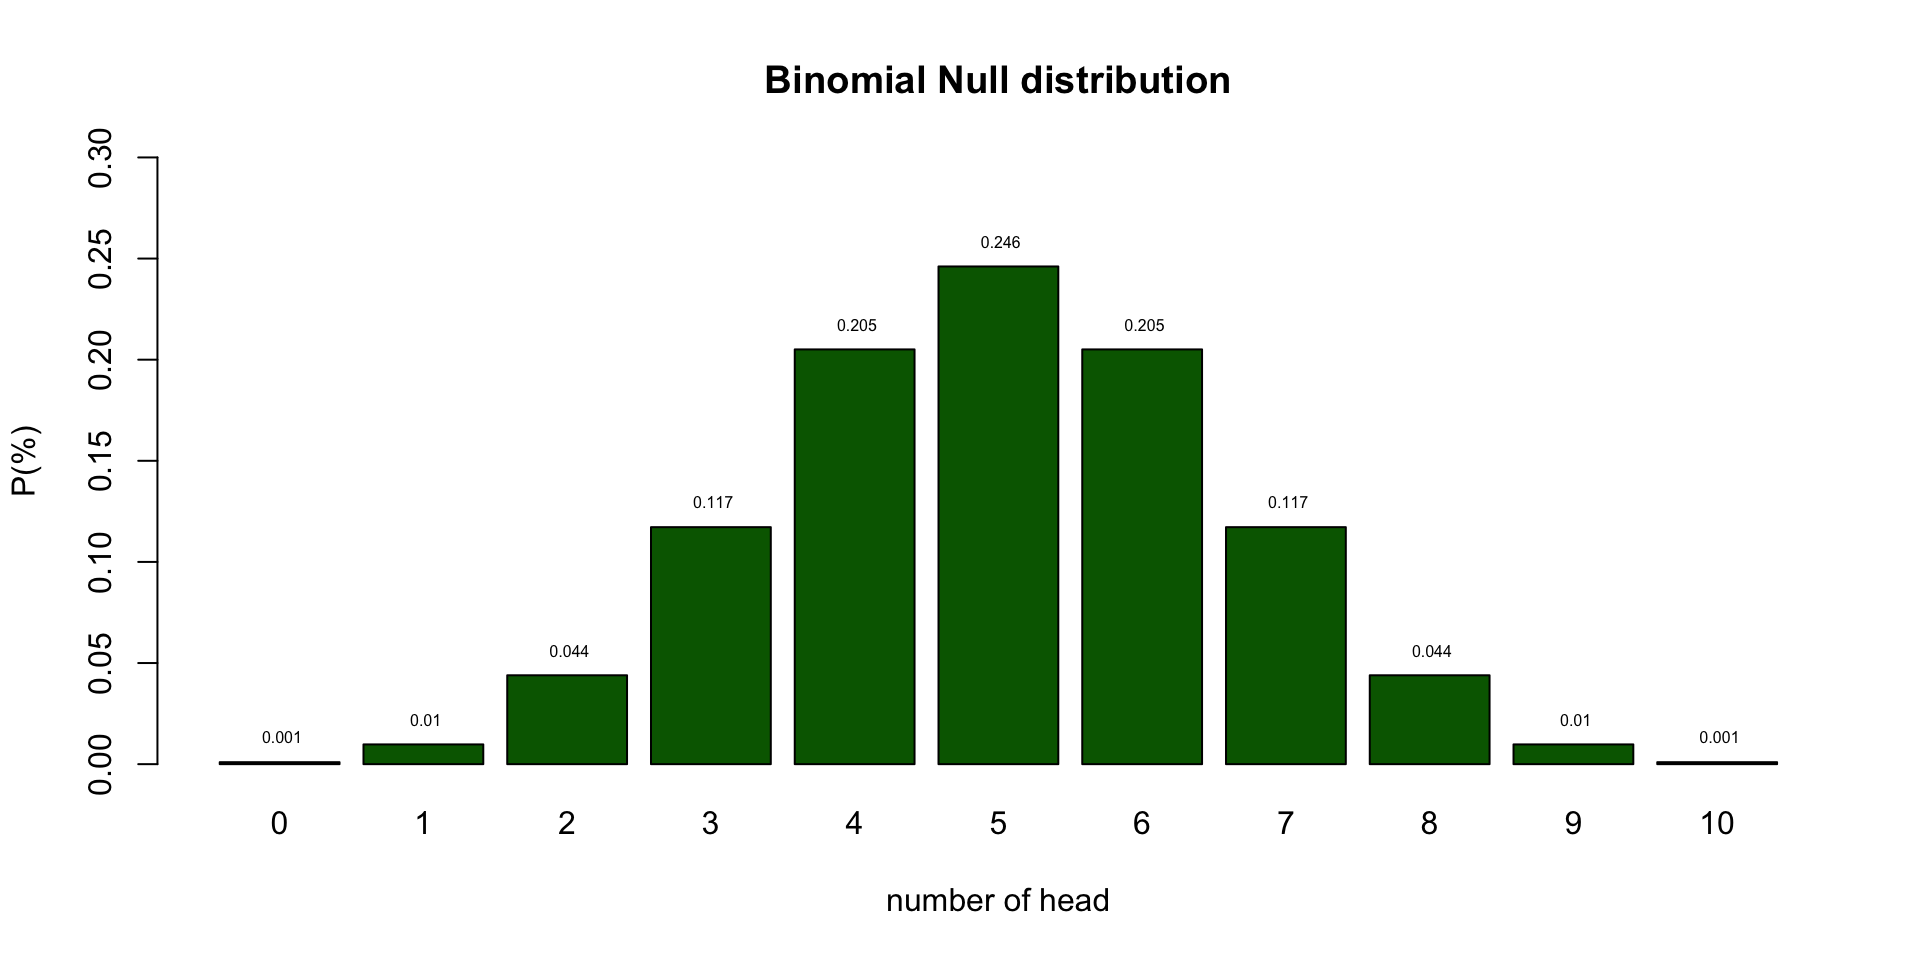
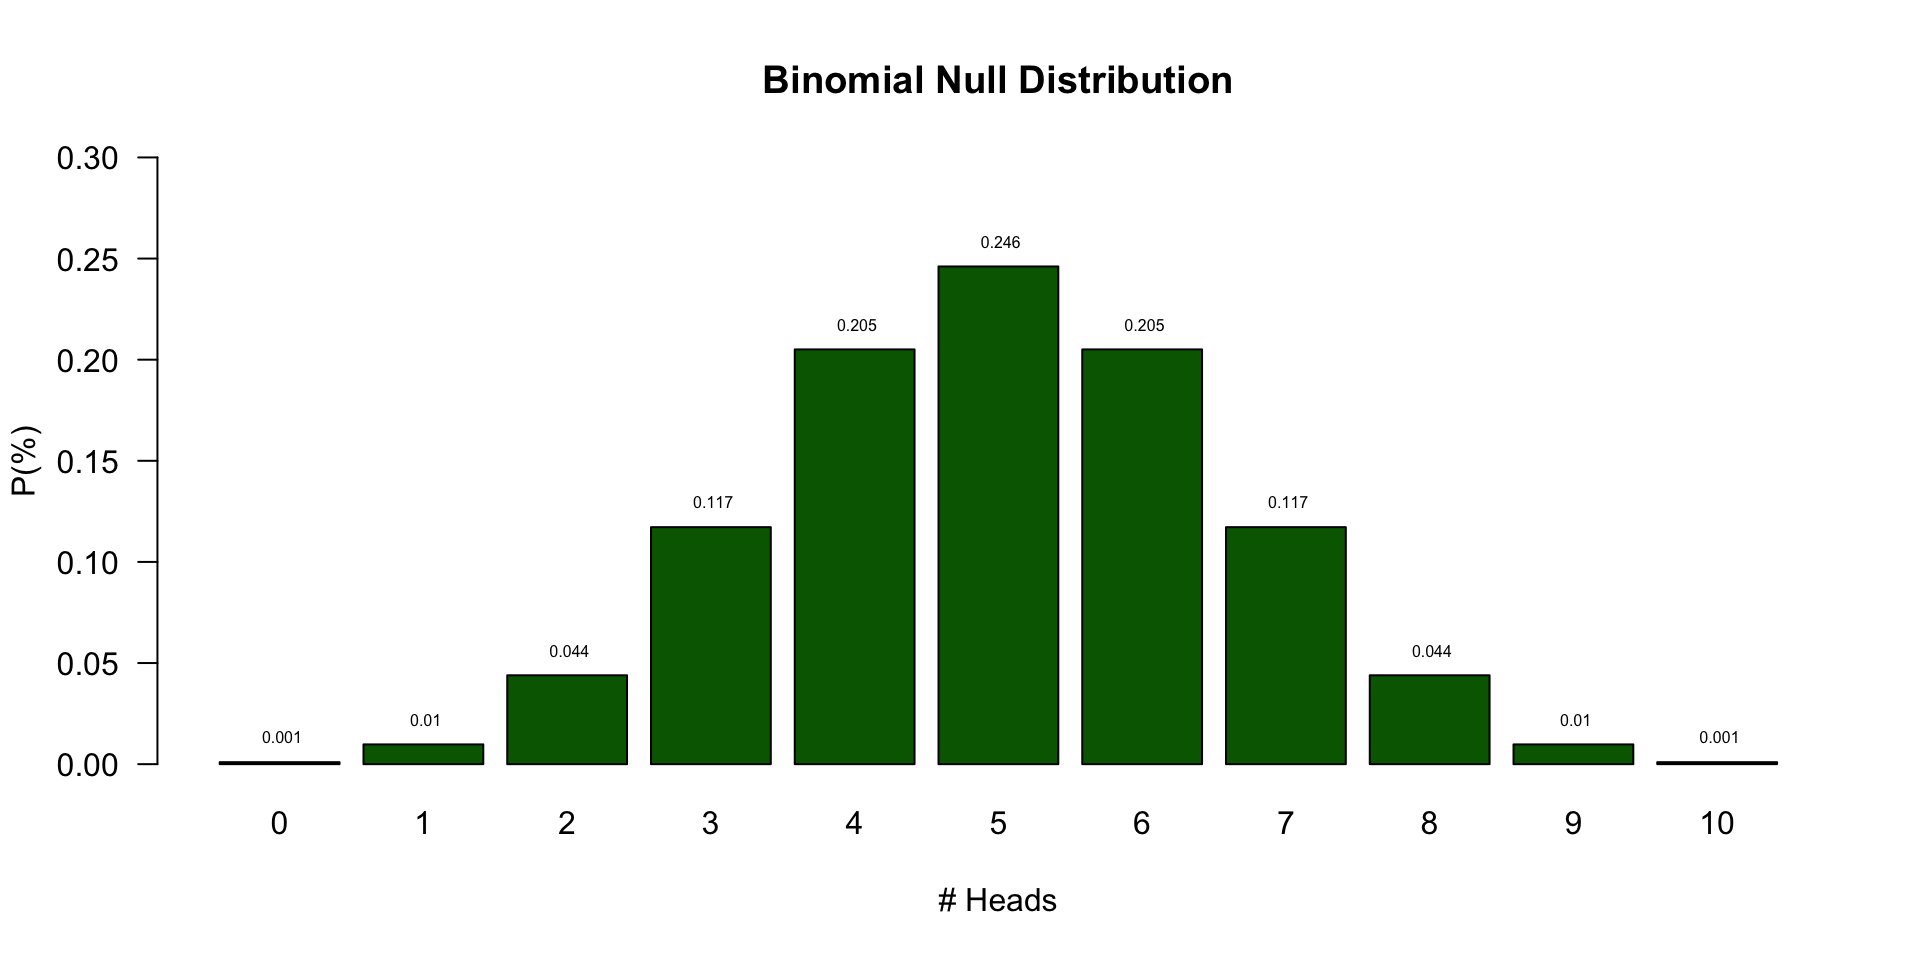
slide

diff --git a/courses/SSR/SSR_2023-2024/2. reasoning_nhst/2. reasoning_empirical_cycle_nhst.slide.html b/courses/SSR/SSR_2023-2024/2. reasoning_nhst/2. reasoning_empirical_cycle_nhst.slide.html
@@ -417,7 +417,7 @@ Sharon Klinkenberg &amp; Johnny van Doorn
 <section>
 <section id="reasoning-in-statistics" class="title-slide slide level1 section center">
 <h1>Reasoning in statistics</h1>
-<p>Source: <a href="https://apps3.cehd.umn.edu/artist/glossary.html">ARTIST</a></p>
+<p>Source: <a href="http://web.archive.org/web/20221018074534/http://apps3.cehd.umn.edu/artist/glossary.html">ARTIST</a></p>
 </section>
 <section id="statistical-literacy" class="slide level2 subsection">
 <h2>Statistical Literacy</h2>
@@ -427,7 +427,7 @@ Sharon Klinkenberg &amp; Johnny van Doorn
 <li>Identify</li>
 <li>Describe</li>
 </ul></li>
-<li>Skils (Ability to work with statistical tools)
+<li>Skills (Ability to work with statistical tools)
 <ul>
 <li>Translate</li>
 <li>Interpret</li>
@@ -447,7 +447,7 @@ Sharon Klinkenberg &amp; Johnny van Doorn
 </ul>
 </section>
 <section id="statistical-thinking" class="slide level2 subsection">
-<h2>Statistical thinking</h2>
+<h2>Statistical Thinking</h2>
 <ul>
 <li>Apply
 <ul>
@@ -515,35 +515,37 @@ Sharon Klinkenberg &amp; Johnny van Doorn
 <section>
 <section id="experiment" class="title-slide slide level1 section center">
 <h1>Experiment</h1>
-<p><a href="https://webcolleges.uva.nl/Mediasite/Play/ed1e63e0cd204dcf9d2a144603ce342b1d?playFrom=3708000">Video registration</a></p>
+<!-- [Video registration](https://webcolleges.uva.nl/Mediasite/Play/ed1e63e0cd204dcf9d2a144603ce342b1d?playFrom=3708000) -->
 </section>
-<section id="heads" class="slide level2">
-<h2>Heads</h2>
+<section id="test" class="slide level2">
+<h2>Test</h2>
 <div style="text-align:center;">
-<p><img src="https://shklinkenberg.github.io/statistics-lectures/topics/coin_expreiment/QR_heads.png" style="width:40%;"></p>
-<p>
-bit.ly/2j54A2U
+<p><img src="proyi.png" style="width:40%;"></p>
+<p style="font-size: 30px;">
+https://maglit.me/proyi
 </p>
 </div>
 </section>
 <section id="emperical-cycle" class="slide level2 section">
 <h2>Emperical Cycle</h2>
 <ul>
-<li><strong>Observation</strong> Patiënt is showing post traumatic symptoms</li>
-<li><strong>Induction</strong> Can we diagnose PTSD</li>
-<li><strong>Deduction</strong> <span class="math inline">\(H_0\)</span>: P: fair coin → C: patiënt is balanced</li>
-<li><strong>Deduction</strong> <span class="math inline">\(H_A\)</span>: P: Unfair coin → C: patiënt is unbalanced</li>
-<li><strong>Deduction</strong> <span class="math inline">\(H_A\)</span>: P: data <span class="math inline">\(\neq\)</span> EV → C: is unbalanced</li>
+<li><strong>Observation</strong> Patient is showing strange behavior</li>
+<li><strong>Induction</strong> Can we diagnose an alien takeover?</li>
+<li><strong>Deduction</strong> <span class="math inline">\(H_0\)</span>: P: <span class="math inline">\(\theta = 0.5\)</span> → C: patient is human</li>
+<li><strong>Deduction</strong> <span class="math inline">\(H_A\)</span>: P: <span class="math inline">\(\theta &gt; 0.5\)</span> → C: patient is alien</li>
+<li><strong>Deduction</strong> <span class="math inline">\(H_A\)</span>: P: data <span class="math inline">\(\neq\)</span> EV → C: patient is alien</li>
 <li><strong>Testing</strong> Choose <span class="math inline">\(\alpha\)</span> and Power</li>
 <li><strong>Evaluation</strong> Make a decision</li>
 </ul>
 </section>
 <section id="null-distribution" class="slide level2 subsection">
-<h2>Null distribution</h2>
+<h2>Null Distribution</h2>
 <p>Let’s analyse the null distribution of the results.</p>
-<iframe style="height:400px; width:100%;" src="https://docs.google.com/spreadsheets/d/e/2PACX-1vSsDN_T8O8wuk3R-QuQR2PpUfK9IeM979FzMSNZi1krq_T8ICAxE5N10di8vwHfJRHXrr-zwXtKsTWz/pubhtml?gid=1329884255&amp;single=true&amp;widget=true&amp;headers=false">
+<iframe style="height:400px; width:100%;" src="https://docs.google.com/spreadsheets/d/e/2PACX-1vRcL5O7fPYtEfvqIQcRIFErAejbp8QozEW0Rx7m4p0xqA2-QU8CrMq35kVCD6q3CZH-CPhlJgXLZONc/pubhtml?widget=true&amp;headers=false">
 </iframe>
-<p><a href="https://docs.google.com/spreadsheets/d/150iSLUXqZbsetzDMjYlY5CAcjIzTanTm2tOFfn_ConA/edit?usp=sharing">Google sheet</a></p>
+
+<!-- [Google sheet](https://docs.google.com/spreadsheets/d/150iSLUXqZbsetzDMjYlY5CAcjIzTanTm2tOFfn_ConA/edit?usp=sharing) -->
+<p><a href="https://docs.google.com/spreadsheets/d/1BXVnt8yRDvzzzAsP1RkaTgPrwWkBTAQE16U1nD2nuNg/edit?usp=sharing">Google sheet</a></p>
 <!--
 
 
@@ -555,18 +557,17 @@ bit.ly/2j54A2U
 <ul>
 <li>Population distribution</li>
 <li>Sample distribution</li>
-<li>Samples distribution</li>
+<li>Sampling distribution</li>
 </ul>
 </section>
 <section id="binomial-distribution" class="slide level2">
 <h2>Binomial distribution</h2>
-<p><span class="math display">\[ {n\choose k}p^k(1-p)^{n-k} \\
-{n\choose k} = \frac{n!}{k!(n-k)!} \]</span></p>
+<p><span class="math display">\[P(k \text{ success out of } n \text{ trials} \mid \text{probability } p) = {n\choose k}p^k(1-p)^{n-k}\]</span> where <span class="math display">\[ {n\choose k} = \frac{n!}{k!(n-k)!} \]</span></p>
 <p>With values:</p>
 <div class="cell">
-<div class="sourceCode cell-code" id="cb1"><pre class="sourceCode numberSource r number-lines code-with-copy"><code class="sourceCode r"><span id="cb1-1"><a href="#cb1-1"></a>n <span class="ot">=</span> <span class="dv">10</span>   <span class="co"># Sample size</span></span>
-<span id="cb1-2"><a href="#cb1-2"></a>k <span class="ot">=</span> <span class="dv">0</span><span class="sc">:</span><span class="dv">10</span> <span class="co"># Discrete probability space</span></span>
-<span id="cb1-3"><a href="#cb1-3"></a>p <span class="ot">=</span> .<span class="dv">5</span>   <span class="co"># Probability of head</span></span></code><button title="Copy to Clipboard" class="code-copy-button"><i class="bi"></i></button></pre></div>
+<div class="sourceCode cell-code" id="cb1"><pre class="sourceCode numberSource r number-lines code-with-copy"><code class="sourceCode r"><span id="cb1-1"><a href="#cb1-1"></a>n <span class="ot">&lt;-</span> <span class="dv">10</span>   <span class="co"># Sample size</span></span>
+<span id="cb1-2"><a href="#cb1-2"></a>k <span class="ot">&lt;-</span> <span class="dv">0</span><span class="sc">:</span><span class="dv">10</span> <span class="co"># Discrete probability space (numbers 0, 1, ..., 9, 10)</span></span>
+<span id="cb1-3"><a href="#cb1-3"></a>p <span class="ot">&lt;-</span> .<span class="dv">5</span>   <span class="co"># Probability of head</span></span></code><button title="Copy to Clipboard" class="code-copy-button"><i class="bi"></i></button></pre></div>
 </div>
 </section>
 <section id="probabilities" class="slide level2">
@@ -575,49 +576,50 @@ bit.ly/2j54A2U
 <img data-src="2.-reasoning_empirical_cycle_nhst_files/figure-revealjs/unnamed-chunk-8-1.png" width="960" class="r-stretch"></section>
 <section id="testing" class="slide level2">
 <h2>Testing</h2>
-<p>I landed 2 times head. Can we conclude PTSD?</p>
+<p>I had 7 items correct. Can we conclude I am no longer human?</p>
 <ul>
-<li>As you can see from the distribution of healthy coins, we cannot conclude that by definition.</li>
-<li>What we can do is indicate how rare 2 is in a healthy population.</li>
+<li>As you can see from the distribution of human scores, we cannot conclude that by definition.</li>
+<li>What we can do is indicate how rare 7 is in a human population.</li>
 </ul>
 </section>
 <section id="testing-1" class="slide level2 smaller">
 <h2>Testing</h2>
 <p><small></small></p><small>
 <ul>
-<li class="fragment">Based on the null distribution we can see that the expected value (EV is 5.)</li>
-<li class="fragment">We can now define the <span class="math inline">\(H_0\)</span> hypothesis: <span class="math inline">\(H_0 = 5\)</span></li>
+<li class="fragment">Based on the null distribution we can see that the expected value (EV) is 5</li>
+<li class="fragment">We can now define the <span class="math inline">\(H_0\)</span> hypothesis: <span class="math inline">\(H_0: EV = 5\)</span></li>
 <li class="fragment">What is the alternative hypothesis?</li>
-<li class="fragment">The alternative hypothesis describes a situation where PTSD is pressent.</li>
-<li class="fragment">We could say that the alternative hypothesis is not 5.
+<li class="fragment">The alternative hypothesis describes a situation where the patient is alien</li>
+<li class="fragment">We could say that the alternative hypothesis is not 5
 <ul>
-<li class="fragment"><span class="math inline">\(H_A \ne 5\)</span></li>
+<li class="fragment"><span class="math inline">\(H_A: EV \ne 5\)</span></li>
 </ul></li>
 <li class="fragment">We could also formulate our <span class="math inline">\(H_0\)</span> and <span class="math inline">\(H_A\)</span> more abstract:
 <ul>
-<li class="fragment"><span class="math inline">\(H_0:\)</span> the patient is balenced</li>
-<li class="fragment"><span class="math inline">\(H_A:\)</span> the patient is unbalenced</li>
+<li class="fragment"><span class="math inline">\(H_0:\)</span> the patient is human</li>
+<li class="fragment"><span class="math inline">\(H_A:\)</span> the patient is alien</li>
 </ul></li>
-<li class="fragment">What criterium should we use to conclude that one would be unbalenced?</li>
+<li class="fragment">What criterion should we use to conclude that one would be alien?</li>
 <li class="fragment">In the social sciences this <span class="math inline">\(\alpha\)</span> criteria is often 5%.</li>
-<li class="fragment">I tossed 2 times head. That is more frequent than 5%.</li>
-<li class="fragment">Therefore, we conclude that our patient is probably healthy but we can never be sure.</li>
-<li class="fragment">My coin could still be part of the unbalenced population.</li>
+<li class="fragment">I scored 7 items correct. That is more frequent than 5%.</li>
+<li class="fragment">Therefore, we conclude that our patient is probably human but we can never be sure.</li>
+<li class="fragment">I could still be part of the alien population.</li>
 </ul>
 </small><p><small></small></p>
 </section>
 <section id="null-distribution-1" class="slide level2">
-<h2>Null distribution</h2>
+<h2>Null Distribution</h2>
+<p>Observations outside the dashed lines are significant for <span class="math inline">\(\alpha = 0.05\)</span></p>
 
 <img data-src="2.-reasoning_empirical_cycle_nhst_files/figure-revealjs/unnamed-chunk-9-1.png" width="960" class="r-stretch"></section>
 <section id="alternative-distribution" class="slide level2 smaller build subsection">
 <h2>Alternative Distribution</h2>
-<p>But we have no clue of what this distribution could look like.</p>
-<p>For now let’s assume the probability of landing heads for my coin is .25</p>
+<p>But we have no clue what this distribution could look like.</p>
+<p>For now let’s assume the probability of answering an item correctly is .75</p>
 
 <img data-src="2.-reasoning_empirical_cycle_nhst_files/figure-revealjs/unnamed-chunk-10-1.png" width="960" class="r-stretch"></section>
 <section id="h_0-and-h_a-distribution" class="slide level2">
-<h2><span class="math inline">\(H_0\)</span> and <span class="math inline">\(H_A\)</span> distribution</h2>
+<h2><span class="math inline">\(H_0\)</span> and <span class="math inline">\(H_A\)</span> Distribution</h2>
 
 <!--
 
